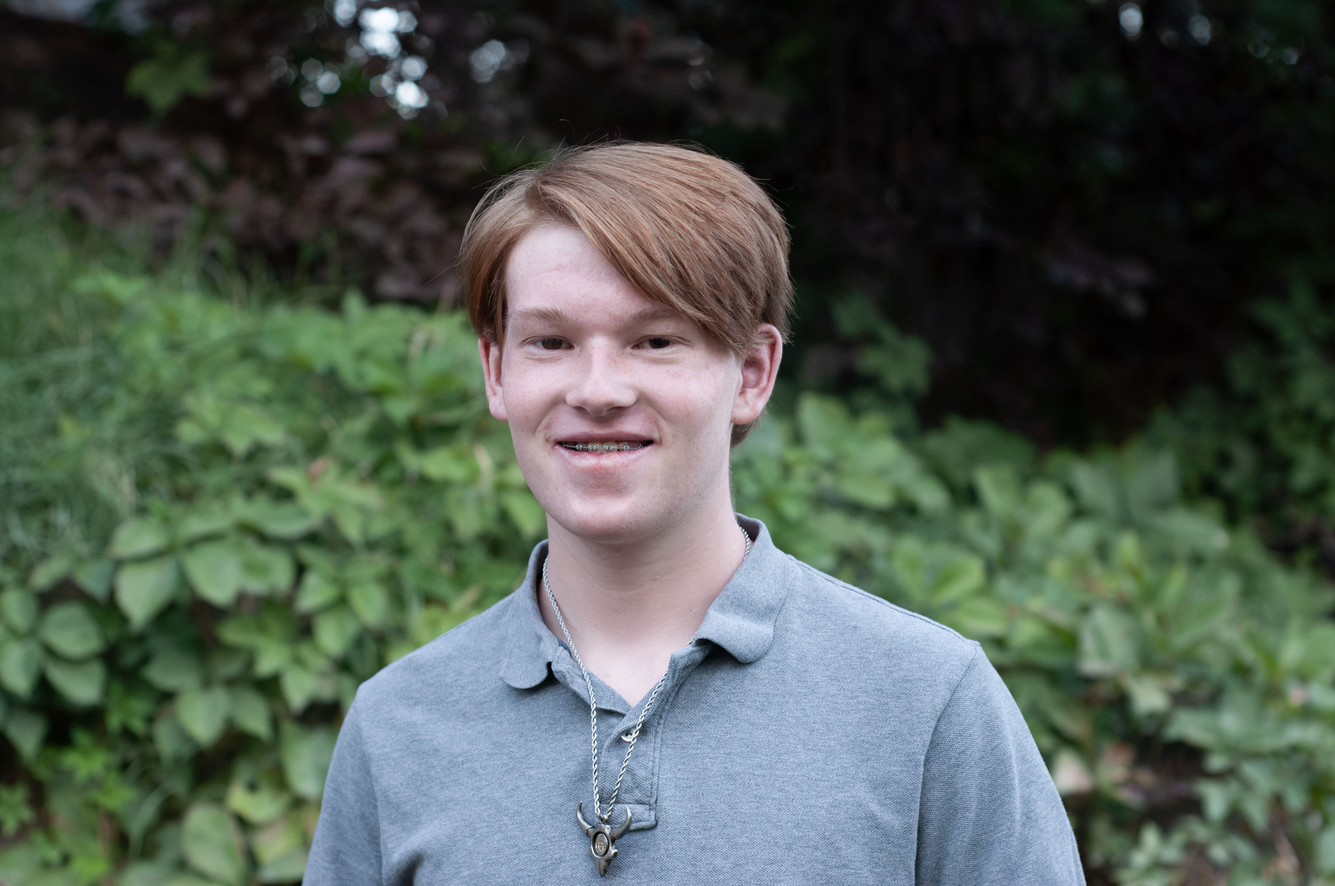
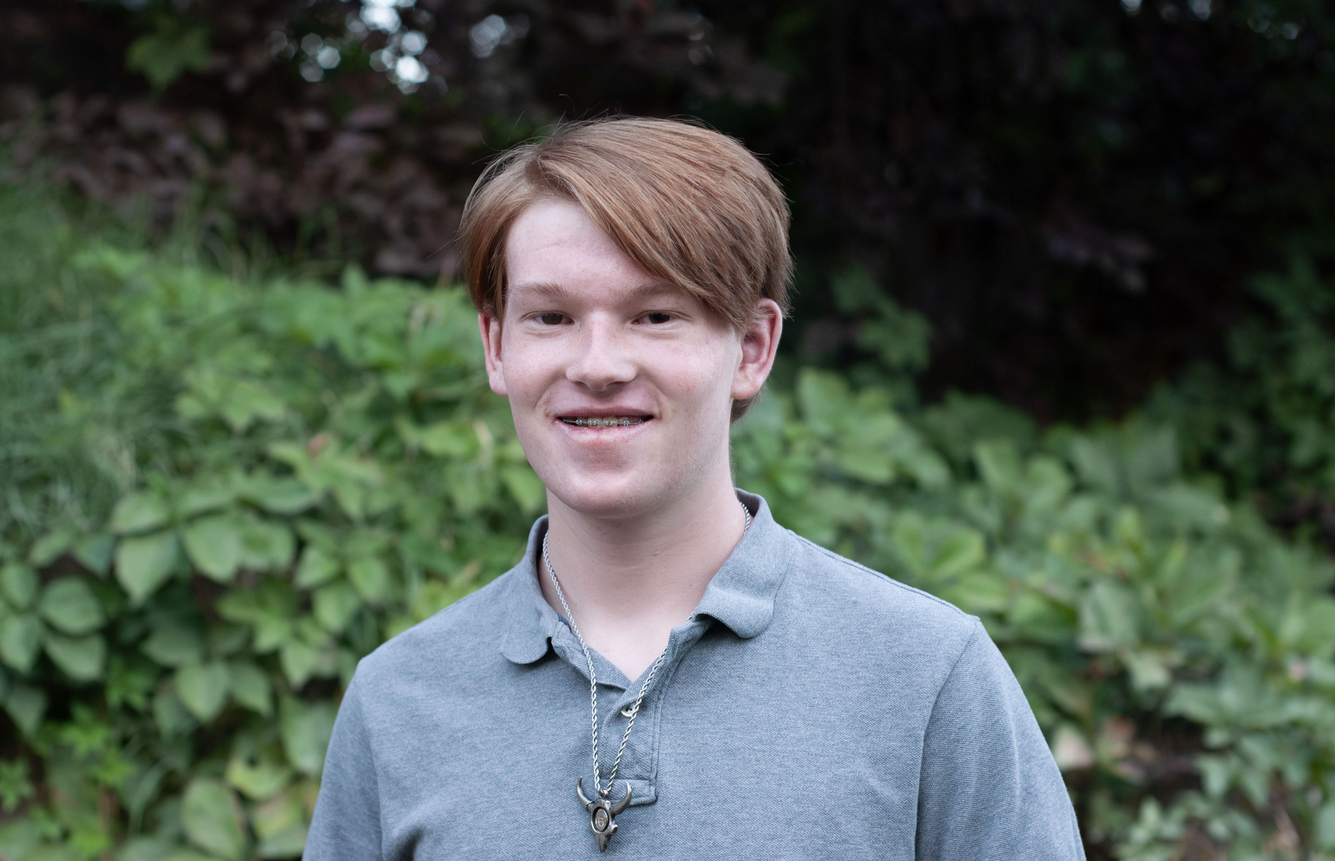
Update

diff --git a/index.html b/index.html
@@ -1,6 +1,5 @@
 <!DOCTYPE html>
 <html lang="en">
-
 <head>
     <meta charset="UTF-8">
     <meta name="viewport" content="width=device-width, initial-scale=1.0">
@@ -8,10 +7,9 @@
     <title>Kasen Lindquist</title>
     <link rel="icon" type="image/x-icon" href="./Images_Index/Kasen-Lindquist-Logo-1.png">
     <style>
-
+        /* Add any additional styling here */
     </style>
 </head>
-
 <body>
     <div class="container">
         <header class="header">
@@ -20,22 +18,74 @@
         </header>
         <div class="slideshow">
             <div class="slides fade">
-                <img src="./Images_Index/Lindquist-185.jpg" alt="Image 1">
+                <img src="./Images_Index/Lindquist-185.jpg" alt="Image 1" style="height: 809.33;">
             </div>
             <div class="slides fade">
                 <img src="./Images_Index/Lindquist-19.jpg" alt="Image 2">
             </div>
             <div class="slides fade">
-                <img src="./Images_Index/Kasen&Koryn.jpg" alt="Image 3">
+                <img src="./Images_Index/Kasen&Koryn.jpg" alt="Image 3" style="height: 100%;">
             </div>
         </div>
     </div>
-
+    <nav class="navbar">
+        <ul>
+            <li><a href="#home">Home</a></li>
+            <li><a href="#about">About</a></li>
+            <li><a href="#portfolio">Portfolio</a></li>
+            <li><a href="#contact">Contact</a></li>
+        </ul>
+    </nav>
+    <br>
+    <section id="skills">
+        <h2>Skills</h2>
+        <div class="skills-container">
+            <div class="skill-card">
+                <h3>HTML</h3>
+            </div>
+            <div class="skill-card">
+                <h3>CSS</h3>
+            </div>
+            <div class="skill-card">
+                <h3>JavaScript</h3>
+            </div>
+            <div class="skill-card">
+                <h3>React</h3>
+            </div>
+            <div class="skill-card">
+                <h3>Angular</h3>
+            </div>
+            <div class="skill-card">
+                <h3>jQuery</h3>
+            </div>
+            <div class="skill-card">
+                <h3>Git</h3>
+            </div>
+            <div class="skill-card">
+                <h3>VSCode</h3>
+            </div>
+            <div class="skill-card">
+                <h3>UI/UX Design</h3>
+            </div>
+            <div class="skill-card">
+                <h3>SQL</h3>
+            </div>
+        </div>
+    </section>    
+    <section id="hobbies">
+        <h2>Hobbies & Interests</h2>
+        <ul>
+            <li>Hiking</li>
+            <li>Photography</li>
+            <li>Cooking</li>
+            <li>Community Volunteering</li>
+            <li>Side Projects: Web Apps, Games</li>
+        </ul>
+    </section>
     <script>
         // JavaScript for the slideshow
         let slideIndex = 0;
         showSlides();
-
         function showSlides() {
             let slides = document.getElementsByClassName("slides");
             for (let i = 0; i < slides.length; i++) {
@@ -47,7 +97,5 @@
             setTimeout(showSlides, 3000); // Change image every 3 seconds
         }
     </script>
-
 </body>
-
 </html>

diff --git a/style.css b/style.css
@@ -3,19 +3,18 @@
     padding: 0;
     box-sizing: border-box;
 }
-
 body {
     font-family: Arial, sans-serif;
     display: flex;
-    height: 100vh;
+    flex-direction: column;
+    min-height: 100vh;
+    overflow-y: auto; /* Allow vertical scrolling */
 }
-
 .container {
     display: flex;
+    flex-direction: row;
     width: 100%;
-    height: 100%;
 }
-
 .header {
     flex: 1;
     padding: 20px;
@@ -26,30 +25,118 @@ body {
     align-items: center;
     text-align: center;
 }
-
 .header h1 {
     font-size: 2.5em;
 }
-
 .header p {
     font-size: 1.2em;
     margin-top: 10px;
 }
-
 .slideshow {
-    position: relative;
     flex: 2;
+    position: relative;
     overflow: hidden;
 }
-
 .slides {
     display: none;
     position: absolute;
     width: 100%;
     height: 100%;
 }
-
 .slides img {
     width: 100%;
     height: auto;
+}
+.navbar {
+    background-color: #333;
+    overflow: hidden;
+    margin: 0 auto;
+    width: fit-content;
+    padding: 10px 20px;
+    border-radius: 5px;
+}
+.navbar ul {
+    list-style-type: none;
+    padding: 0;
+    display: flex;
+    justify-content: center;
+    margin: 0;
+}
+.navbar ul li {
+    margin: 0 10px;
+}
+.navbar ul li a {
+    display: block;
+    color: white;
+    text-align: center;
+    padding: 14px 20px;
+    text-decoration: none;
+    border-radius: 5px;
+}
+.navbar ul li a:hover {
+    background-color: #ddd;
+    color: black;
+}
+section {
+    padding: 20px;
+    text-align: center;
+}
+#skills {
+    background-color: #f9f9f9;
+}
+#skills h2 {
+    font-size: 2.5em;
+    color: #333;
+    margin-bottom: 20px;
+}
+.skills-container {
+    display: flex;
+    flex-wrap: wrap;
+    justify-content: center;
+    gap: 15px;
+}
+.skill-card {
+    background-color: #AEC6CF; /* Muted blue */
+    color: white;
+    padding: 20px;
+    border-radius: 10px;
+    box-shadow: 0 4px 8px rgba(0,0,0,0.1);
+    transition: transform 0.3s;
+    width: 150px;
+    text-align: center;
+}
+.skill-card:nth-child(2) {
+    background-color: #FFB347; /* Muted orange */
+}
+.skill-card:nth-child(3) {
+    background-color: #77DD77; /* Muted green */
+}
+.skill-card:nth-child(4) {
+    background-color: #CFCFC4; /* Muted light grey */
+}
+.skill-card:nth-child(5) {
+    background-color: #FF6961; /* Muted red */
+}
+.skill-card:nth-child(6) {
+    background-color: #FDFD96; /* Muted yellow */
+}
+.skill-card:nth-child(7) {
+    background-color: #FFB5E8; /* Muted pink */
+}
+.skill-card:nth-child(8) {
+    background-color: #B39EB5; /* Muted purple */
+}
+.skill-card:nth-child(9) {
+    background-color: #CB99C9; /* Muted lavender */
+}
+.skill-card:nth-child(10) {
+    background-color: #779ECB; /* Muted blue */
+}
+.skill-card:hover {
+    transform: scale(1.1);
+    filter: brightness(85%);
+}
+.skill-card h3 {
+    margin: 0;
+    font-size: 1.5em;
 }
